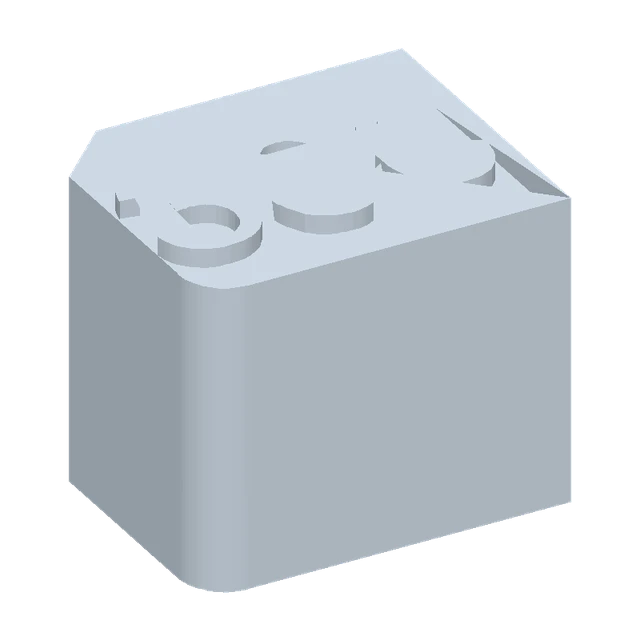
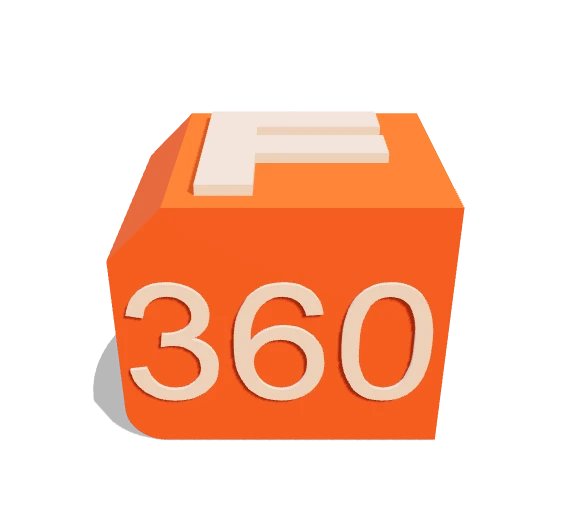
Estabiliza a transição da prévia ao modelo 3D da abertura

diff --git a/model-viewer.js b/model-viewer.js
@@ -6,9 +6,7 @@ if (viewer) {
   const loadingMessage = viewer.querySelector('.model-loading');
   const modelHint = viewer.querySelector('.model-hint');
   const modelFallback = viewer.querySelector('.model-fallback');
-  const motionToggle = viewer.querySelector('.model-motion-toggle:not([data-scan-skip])');
-  const scanStatus = viewer.querySelector('[data-scan-status]');
-  const scanSkip = viewer.querySelector('[data-scan-skip]');
+  const motionToggle = viewer.querySelector('.model-motion-toggle');
   let loadingFailed = false;
   let loadingDeadline = null;
 
@@ -31,8 +29,6 @@ if (viewer) {
 
     viewer.classList.remove('is-loaded', 'is-dragging');
     viewer.removeAttribute('tabindex');
-    if (scanStatus) scanStatus.hidden = true;
-    if (scanSkip) scanSkip.hidden = true;
 
     if (motionToggle) {
       motionToggle.hidden = true;
@@ -59,24 +55,12 @@ if (viewer) {
 
     // Importações dinâmicas permitem informar o erro caso a CDN não responda.
     // A inicialização espera o visualizador se aproximar da área visível.
-    // O efeito é opcional: falha ou atraso desse módulo não bloqueia o STL.
-    const loadScanEffect = () => {
-      if (window.matchMedia('(prefers-reduced-motion: reduce)').matches || navigator.connection?.saveData) {
-        return Promise.resolve(null);
-      }
-      let timer;
-      return Promise.race([
-        import('./assets/js/model-scan.js?v=1').catch(() => null),
-        new Promise(resolve => { timer = window.setTimeout(() => resolve(null), 1500); })
-      ]).finally(() => window.clearTimeout(timer));
-    };
     const loadViewerDependencies = () => Promise.all([
       import('three'),
       import('three/addons/controls/OrbitControls.js'),
-      import('three/addons/loaders/STLLoader.js'),
-      loadScanEffect()
+      import('three/addons/loaders/STLLoader.js')
     ])
-      .then(([THREE, controlsModule, loaderModule, scanModule]) => {
+      .then(([THREE, controlsModule, loaderModule]) => {
         // Descarta imports que chegaram depois do prazo, sem reativar o canvas.
         if (loadingFailed) return;
         const { OrbitControls } = controlsModule;
@@ -188,8 +172,6 @@ if (viewer) {
           let viewerVisible = typeof window.IntersectionObserver !== 'function';
           let viewerFailed = false;
           let rotationPausedByUser = false;
-          let scanEffect = null;
-          let pendingScan = null;
 
           // Cria uma sombra suave abaixo do objeto tridimensional
           const shadow = new THREE.Mesh(
@@ -227,8 +209,6 @@ if (viewer) {
             && viewerVisible
             && !document.hidden
             && !viewerFailed
-            && !scanEffect
-            && !pendingScan
             && !rotationPausedByUser;
 
           const animateAutomaticRotation = (currentTime) => {
@@ -278,59 +258,6 @@ if (viewer) {
             syncAutoRotationLoop();
           };
 
-          // Restaura a peça completa e libera os recursos temporários do scanner.
-          const finishScan = (resume = true) => {
-            if (!scanEffect && !pendingScan) return;
-            if (pendingScan) pendingScan.visible = true;
-            pendingScan = null;
-            scanEffect?.dispose();
-            scanEffect = null;
-            viewer.classList.remove('is-scanning');
-            viewer.dataset.scanState = 'complete';
-            viewer.dataset.scanParticles = '0';
-            if (scanStatus) scanStatus.hidden = true;
-            const returnFocus = scanSkip === document.activeElement;
-            if (scanSkip) scanSkip.hidden = true;
-            if (modelHint) modelHint.hidden = !modelReady || viewerFailed;
-            if (motionToggle) motionToggle.hidden = !modelReady || viewerFailed;
-            if (returnFocus && !viewerFailed) viewer.focus({ preventScroll: true });
-            render(true);
-            if (resume) setAutomaticRotation(true);
-          };
-
-          // No celular a peça pode começar abaixo da dobra: espera ficar visível.
-          const startScanIfVisible = () => {
-            if (!pendingScan || !viewerVisible || document.hidden) return;
-            if (prefersReducedMotion || window.matchMedia('print').matches) { finishScan(); return; }
-            const mesh = pendingScan;
-            mesh.visible = true;
-            try {
-              setAutomaticRotation(false);
-              scanEffect = scanModule.createModelScan({
-                THREE, mesh, scene, renderer, shadow, render,
-                compact: useCompactRendering(),
-                onComplete: () => finishScan()
-              });
-              pendingScan = null;
-              viewer.classList.add('is-scanning');
-              viewer.dataset.scanState = 'running';
-              viewer.dataset.scanParticles = String(scanEffect.particleCount);
-              if (scanStatus) scanStatus.hidden = false;
-              if (scanSkip) scanSkip.hidden = false;
-              if (modelHint) modelHint.hidden = true;
-              if (motionToggle) motionToggle.hidden = true;
-              scanEffect.start();
-            } catch (error) {
-              console.warn('Digitalização indisponível; modelo preservado.', error);
-              finishScan();
-            }
-          };
-          scanSkip?.addEventListener('click', () => finishScan());
-          window.addEventListener('beforeprint', () => finishScan(false));
-          window.matchMedia('print').addEventListener?.('change', (event) => {
-            if (event.matches) finishScan(false);
-          });
-
           // Cancela somente a animação de retorno que estiver em andamento
           const cancelReturnAnimation = () => {
             if (returnAnimationFrame !== null) {
@@ -341,7 +268,6 @@ if (viewer) {
 
           // Interrompe o giro automático assim que o visitante manipula a peça
           const stopAutomaticRotation = () => {
-            finishScan(false);
             window.clearTimeout(idleTimer);
             idleTimer = null;
             cancelReturnAnimation();
@@ -594,8 +520,6 @@ if (viewer) {
             if (typeof window.IntersectionObserver === 'function') {
               visibilityObserver = new IntersectionObserver(([entry]) => {
                 viewerVisible = entry?.isIntersecting ?? true;
-                if (!viewerVisible && scanEffect) finishScan();
-                if (viewerVisible) startScanIfVisible();
                 syncAutoRotationLoop();
               }, {
                 threshold: 0,
@@ -613,15 +537,12 @@ if (viewer) {
 
           // Pausa e retoma o giro conforme a visibilidade da aba
           document.addEventListener('visibilitychange', () => {
-            if (document.hidden && scanEffect) finishScan();
-            if (!document.hidden) startScanIfVisible();
             syncAutoRotationLoop();
           });
 
           // Acompanha alterações da preferência de movimento sem recarregar a página
           const handleReducedMotionChange = (event) => {
             prefersReducedMotion = event.matches;
-            if (prefersReducedMotion) finishScan(false);
             window.clearTimeout(idleTimer);
             idleTimer = null;
             cancelReturnAnimation();
@@ -684,7 +605,6 @@ if (viewer) {
             stopAutoRotationLoop();
             modelReady = false;
             viewerFailed = true;
-            finishScan(false);
             controls.autoRotate = false;
             controls.enabled = false;
             showError(error);
@@ -909,7 +829,8 @@ if (viewer) {
                 mesh.receiveShadow = true;
                 modelRoot.add(mesh);
                 modelRadius = scaledRadius;
-                fitCameraToModel();
+                renderer.shadowMap.needsUpdate = true;
+                resize();
 
                 window.clearTimeout(loadingDeadline);
                 loadingMessage.hidden = true;
@@ -933,20 +854,7 @@ if (viewer) {
                     : 'Pausar rotação';
                 }
 
-                if (scanModule?.createModelScan && !prefersReducedMotion && !window.matchMedia('print').matches) {
-                  pendingScan = mesh;
-                  mesh.visible = false;
-                  if (motionToggle) motionToggle.hidden = true;
-                  if (modelHint) modelHint.hidden = true;
-                  viewer.dataset.scanState = 'pending';
-                  startScanIfVisible();
-                } else {
-                  viewer.dataset.scanState = 'skipped';
-                }
-                if (!scanEffect) {
-                  render(true);
-                  setAutomaticRotation(true);
-                }
+                setAutomaticRotation(true);
               } catch (error) {
                 geometry.dispose();
                 failViewer(error);
@@ -961,7 +869,6 @@ if (viewer) {
           const keyboardRotation = new THREE.Quaternion();
 
           viewer.addEventListener('keydown', (event) => {
-            if (event.key === 'Escape' && scanEffect) { finishScan(); return; }
             if (
               event.target !== viewer
               || event.altKey

diff --git a/index.html b/index.html
@@ -28,7 +28,7 @@
   <meta name="twitter:image:alt" content="Logo do Clube Maker do projeto FECCI Fusion 360">
   <title>Projeto FECCI | Competências STEAM com Fusion 360</title>
   <link rel="preconnect" href="https://cdn.jsdelivr.net" crossorigin>
-  <link rel="stylesheet" href="style.css?v=42">
+  <link rel="stylesheet" href="style.css?v=43">
 </head>
 <body>
   <!-- Atalho de teclado para alcançar diretamente o conteúdo principal -->
@@ -101,9 +101,6 @@
           <p class="model-hint" id="model-instructions" hidden><span aria-hidden="true">↻</span> Arraste ou use as setas para girar</p>
           <!-- Permite interromper a rotação automática sem bloquear o giro manual -->
           <button class="model-motion-toggle" type="button" aria-pressed="false" hidden>Pausar rotação</button>
-          <!-- A digitalização pode ser concluída sem aguardar a animação. -->
-          <p class="model-hint" data-scan-status role="status" hidden>Digitalizando em 3D…</p>
-          <button class="model-motion-toggle" data-scan-skip type="button" hidden>Concluir digitalização</button>
         </div>
         <span class="axis" aria-hidden="true">Fusion 360 / Modelo da equipe</span>
       </div>
@@ -840,7 +837,7 @@
   <!-- A navegação funciona antes do visualizador e das bibliotecas de animação. -->
   <script src="script.js?v=9" defer></script>
   <!-- Controla o carregamento e a interação com os modelos 3D -->
-  <script type="module" src="model-viewer.js?v=14"></script>
+  <script type="module" src="model-viewer.js?v=15"></script>
   <script type="module" src="color-model-viewer.js?v=6"></script>
   <!-- Bibliotecas leves utilizadas exclusivamente nas animações progressivas -->
   <!-- Centraliza as animações da interface sem misturá-las ao restante da lógica -->

diff --git a/style.css b/style.css
@@ -3487,8 +3487,17 @@ body.lightbox-open {
   }
   .hero-art .axis { bottom: 10px; left: 18px; right: auto; color: #f6f3f0; font: 600 13px "Segoe UI", sans-serif; }
   .model-viewer { width: 100%; height: clamp(300px, 36vw, 560px); background: transparent; }
-  .model-viewer:not(.is-loaded) { background: url("assets/modelos/vista-fusion.webp") center/contain no-repeat; }
+  .model-viewer:not(.is-loaded) { background: url("assets/modelos/vista-fusion.webp?v=2") center/contain no-repeat; }
+  .model-viewer:not(.is-loaded) .model-canvas { visibility: hidden; }
   .model-loading, .model-fallback { color: white; }
+  .model-loading:not(.is-error) {
+    inset: 12px 12px auto auto;
+    padding: 8px 12px;
+    background: #202124;
+    border-radius: 20px;
+    letter-spacing: .04em;
+    text-transform: none;
+  }
   .fusion-bar { min-height: 80px; }
   .section-heading { grid-template-columns: 1fr; }
   .section-heading .section-number { display: none; }
